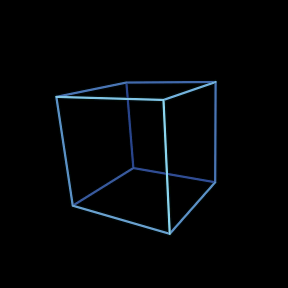
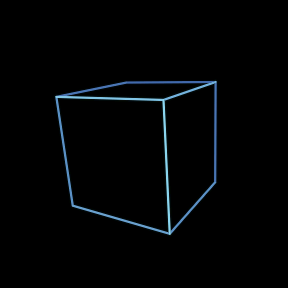
Add wireframe cube display image to documentation
This commit introduces a new PNG image file, `wireframe_cube-display.png`, to the documentation. The image serves as a visual aid for understanding the wireframe cube display feature.

Changed region(s): [[0.3438, 0.2812, 0.75, 0.6562], [0.25, 0.6562, 0.3438, 0.7188]]

diff --git a/README.md b/README.md
@@ -1,0 +1,125 @@
+# Arduino display projects
+
+A collection of ESP32 sketches for small displays: animated graphics, watch
+faces, touchscreen tools, and hardware experiments. Each project is a separate
+firmware application. Uploading one replaces the sketch currently on that board.
+
+Most visual projects use an **ESP32-C3 with a round 240 × 240 GC9A01 display**.
+The Waveshare projects use the **ESP32-S3-Touch-AMOLED-1.8 V2**, with a
+368 × 448 CO5300 AMOLED. Check each project's configuration before building.
+
+## Display gallery
+
+These facsimiles use the projects' existing desktop-rendered preview frames.
+The border is a schematic screen outline, not a photograph or an
+enclosure design. Animation, physical brightness, and refresh behavior vary on
+hardware; these images show representative still frames.
+
+| Matrix code rain | Fireworks |
+| --- | --- |
+| [![Matrix display](docs/images/matrix-display.png)](Matrix/README.md) | [![Fireworks display](docs/images/fireworks-display.png)](Fireworks/README.md) |
+| Breitling watch face | Hyperspace star tunnel |
+| [![Breitling display](docs/images/breitling-display.png)](Breitling/README.md) | [![Hyperspace display](docs/images/hyperspace-display.png)](Hyperspace/README.md) |
+| Blinking eye | Pie menu |
+| [![Blinking eye display](docs/images/blinkingeye-display.png)](BlinkingEye/README.md) | [![Four-slice pie menu display](docs/images/piemenu-display.png)](PieMenu/README.md) |
+| Hamster wheel | Wireframe shapes |
+| [![Hamster wheel display](docs/images/hamster-display.png)](Hamster/README.md) | [![Wireframe cube on the rectangular AMOLED](docs/images/wireframe_cube-display.png)](wireframe_cube/README.md) |
+
+Recreate these images on Windows with `./docs/Generate-DisplayFacsimiles.ps1`.
+It reads each project's `preview.png` (or PieMenu's `previews/preview-4-pie.png`),
+preserves the original, and writes the
+framed facsimiles to `docs/images/`. Project-local preview scripts can regenerate
+the underlying frames from the renderers.
+
+## Projects
+
+| Project | Display or behavior |
+| --- | --- |
+| [wireframe_cube](wireframe_cube/README.md) | Six rotating polyhedra on the S3 AMOLED; 20-second shape cycle, white labels, optional compile-time hidden-line removal. |
+| [Matrix](Matrix/README.md) | Green code rain with bright stream heads and fading trails. |
+| [Fireworks](Fireworks/README.md) | Rockets, colorful bursts, sparks, and fading trails. |
+| [Hyperspace](Hyperspace/README.md) | Curved star streaks in a moving tunnel. |
+| [SpinningDisc](SpinningDisc/README.md) | Animated optical spiral with changing colors and motion. |
+| [BlinkingEye](BlinkingEye/README.md) | Procedural iris, gaze changes, and blinking eyelids. |
+| [Hamster](Hamster/README.md) | Animated hamster running in a wheel. |
+| [Radar](Radar/README.md) | Green phosphor-style radar with simulated contacts; LVGL. |
+| [WatchFace](WatchFace/README.md) | Purple digital watch face with a preset starting time and sample heart-rate value. |
+| [WatchFaceRTC](WatchFaceRTC/README.md) | Network-synchronized version of the digital watch face. |
+| [Breitling](Breitling/README.md) | Aerospace-inspired analog dial and weekday/date LCD. |
+| [Rolex](Rolex/README.md) | Analog watch-face project. |
+| [CoinFlip](CoinFlip/README.md) | Touch-triggered animated gold coin toss. |
+| [Dice](Dice/README.md) | Touch menu for tabletop dice and a gold coin. |
+| [PieMenu](PieMenu/README.md) | Custom LVGL radial buttons and touchscreen menu examples. |
+| [LVGL_Demo](LVGL_Demo/README.md) | LVGL 9 widget gallery for the round touch display. |
+| [HelloScreen](HelloScreen/README.md), [HelloScreenHD](HelloScreenHD/README.md) | Display greetings and uptime; HD variant uses larger fonts. |
+| [WaveshareHelloWorld](WaveshareHelloWorld/README.md) | S3 swipeable hardware tests: touch, sensors, audio, networking, storage, and clock. |
+| [wtxt](wtxt/README.md) | Network text-message display and PowerShell client. |
+
+The numbered folders contain factory, UART, LVGL benchmark/widgets, Wi-Fi,
+TCP/UDP, and BLE examples. Other small sketches include `hello_world_serial`,
+`serial_out_1`, `s7s_counter`, `Helloworld`, and dated experiments.
+`Libraries/` contains local library sources; `docs/` also contains board
+documentation and supplied utilities. Those folders are not standalone sketches.
+
+## Build and upload
+
+Use Arduino IDE or the project's PowerShell build script with Arduino CLI and
+the Espressif ESP32 board package installed. Scripts may contain machine-local
+CLI/config paths; inspect their parameters when setting up another computer.
+There is no single build command for every project.
+
+For the S3 polyhedron animation, from the repository root:
+
+```powershell
+./wireframe_cube/Build.ps1
+./wireframe_cube/Build.ps1 -Upload -Port COM5
+```
+
+For a round-display project, for example:
+
+```powershell
+./Fireworks/Build-Fireworks.ps1
+./Fireworks/Build-Fireworks.ps1 -Upload -Port COM3
+```
+
+COM ports are examples and can change. Select the attached board's actual port
+and close any serial monitor holding it open. Scripts compile only unless
+`-Upload` is supplied. Existing scripts have different names; consult the
+project directory rather than assuming every script is named `Build.ps1`.
+
+## Hardware and dependencies
+
+| Family | Typical configuration |
+| --- | --- |
+| Round ESP32-C3 projects | GC9A01 240 × 240; LovyanGFX; SCLK 6, MOSI 7, DC 2, CS 10, display enable 3; USB CDC enabled. |
+| Round touchscreen projects | CST816D; SDA 4, SCL 5, reset 1, interrupt 0, where supported by the project. |
+| S3 AMOLED projects | ESP32-S3, 16 MB flash, OPI PSRAM; V2 CO5300 panel. See project instructions for original-panel support. |
+
+LVGL versions differ: the factory and numbered widgets samples use LVGL 8,
+while newer UI projects use LVGL 9. Use their build scripts to apply the correct
+configuration. The polyhedron project reuses the vendor libraries under
+`WaveshareHelloWorld/vendor/`; keep that sibling directory available.
+
+Network projects need their own Wi-Fi configuration. Keep credentials local
+and follow the relevant project's setup instructions. Many animations need
+neither networking nor PSRAM. Preview/asset tools commonly require Python,
+Pillow, sometimes NumPy, and a native `g++` compiler; these are separate from
+the firmware build dependencies.
+
+## Desktop checks
+
+For the polyhedron renderer:
+
+```powershell
+./wireframe_cube/Test.ps1
+```
+
+This checks both hidden-line settings, shape geometry and face planes, cycle
+timing, projection bounds, framebuffer guards, and deterministic animation.
+Other projects provide their own `preview.py` or test scripts where available.
+Desktop previews validate rendering and behavior, but do not measure the board's
+actual frame rate or verify physical touch interaction.
+
+Some projects include generated artwork, reference-derived designs, or vendored
+libraries. Consult their local asset provenance and license files before reusing
+or redistributing those materials; this README does not assign a blanket license.
